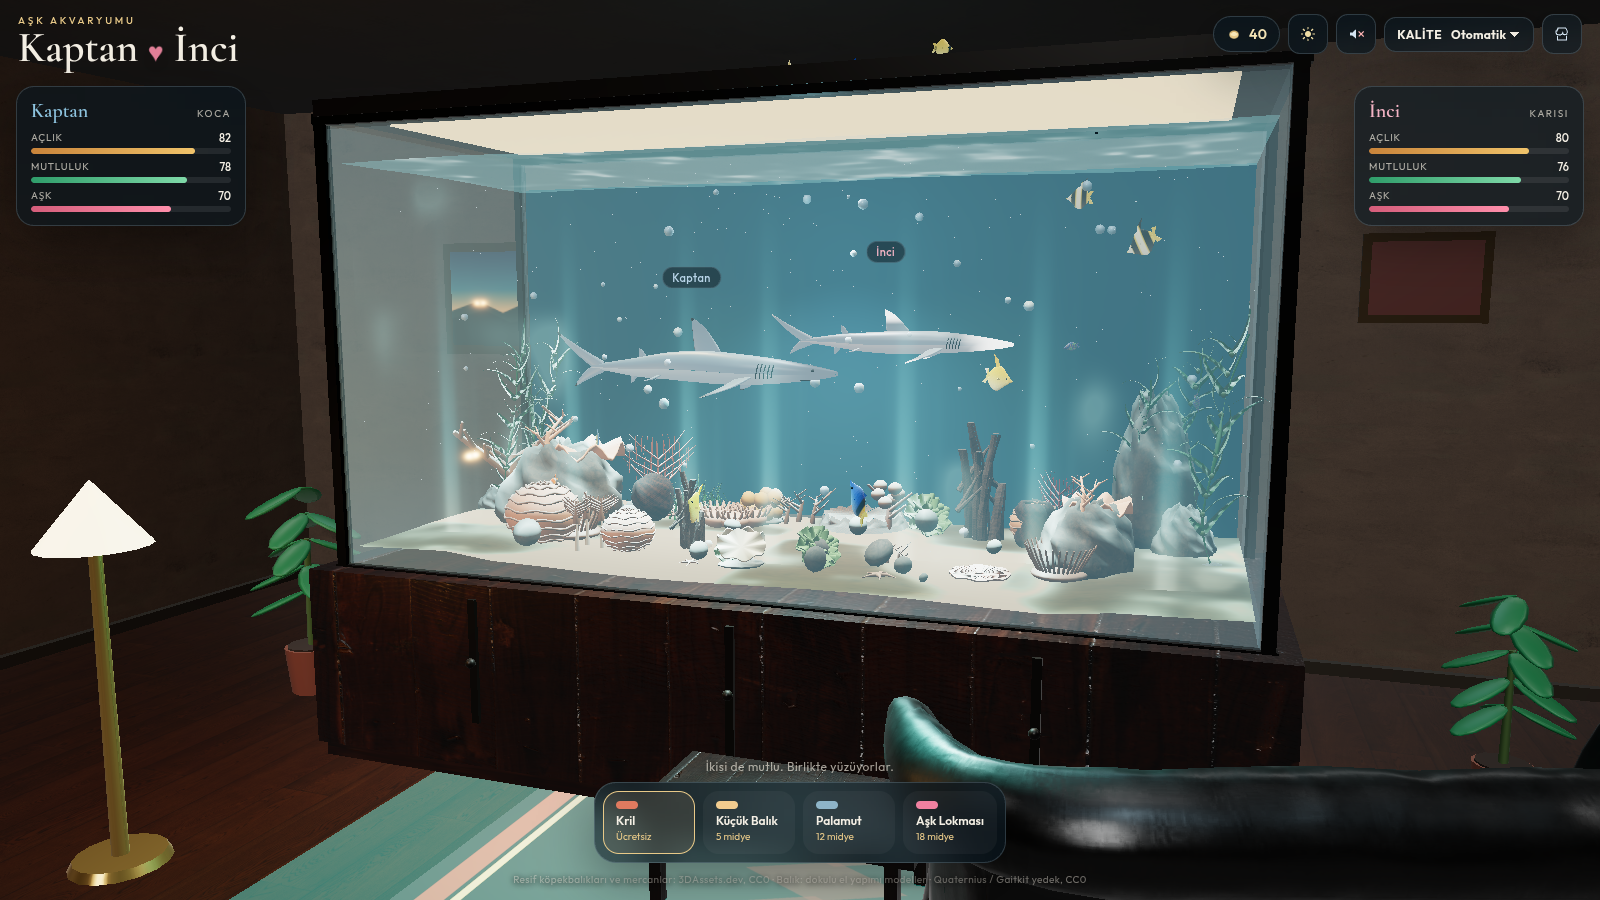
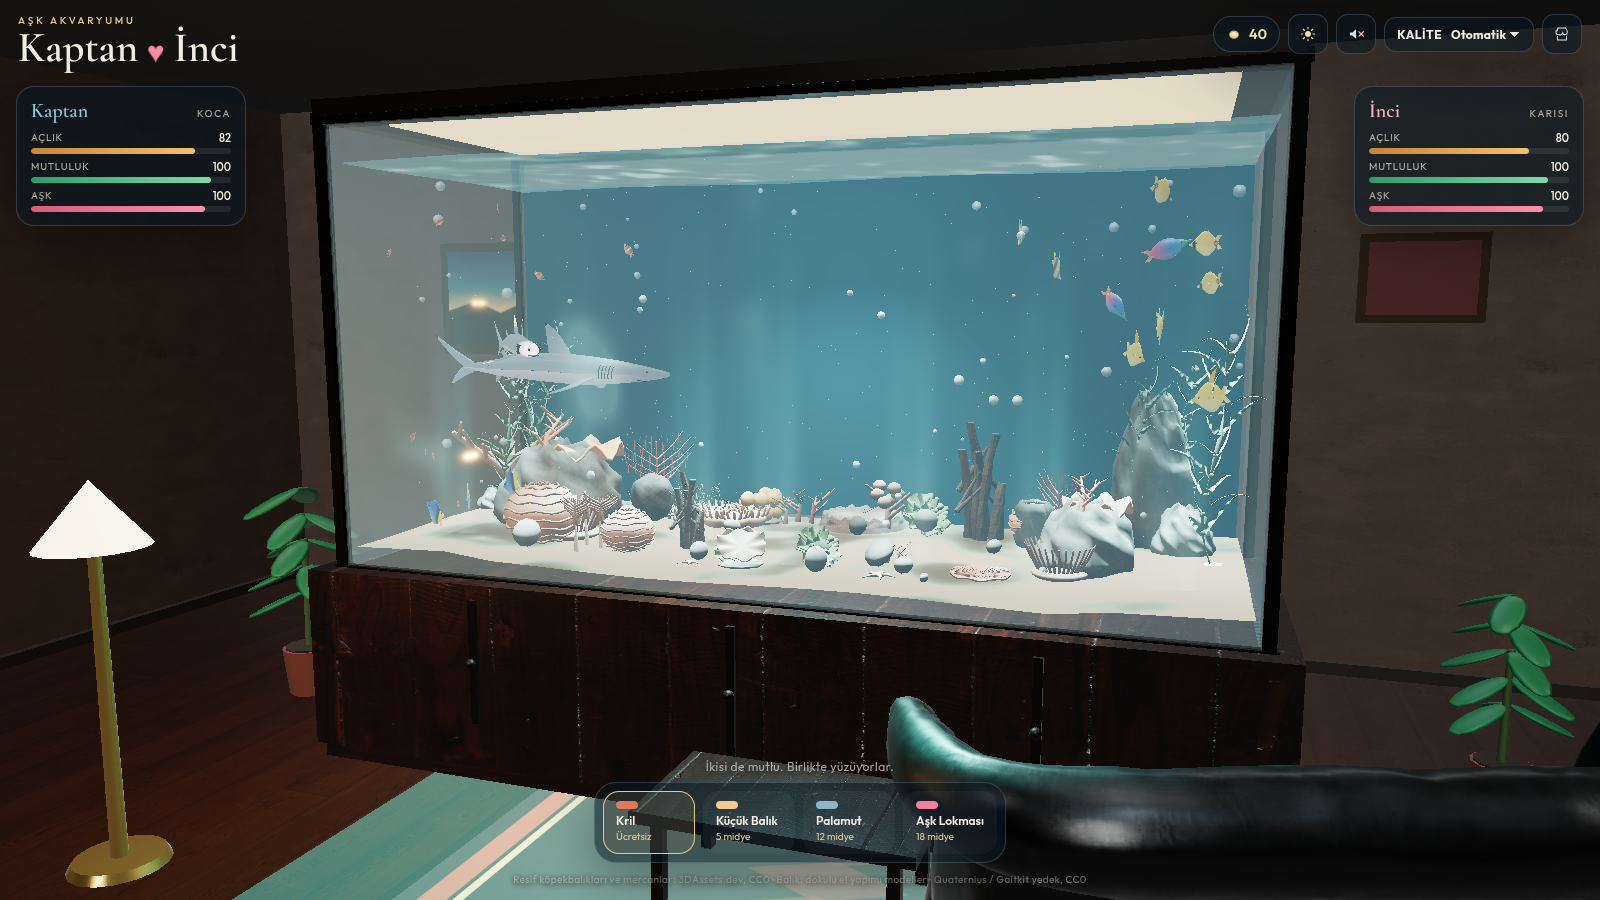
Balıklar artık tankın dışında, havada uçmuyor
Okul entegrasyonu dt ile yapılıyor ve her karede su hacmine (camın içi, su yüzeyinin altı, gövde yarıçapı payı) sıkıca kıstırılıyor. Spawn da aynı hacimde; köpekbalığı, mama, kabarcık ve kar da sınırlı. 30 saniyelik simülasyonda dışarı çıkan yok.

diff --git a/js/actors.js b/js/actors.js
@@ -3,7 +3,7 @@ import { GLTFLoader } from "three/addons/loaders/GLTFLoader.js";
 import { clone as skeletonClone } from "three/addons/utils/SkeletonUtils.js";
 import { CSS2DObject } from "three/addons/renderers/CSS2DRenderer.js";
 import { mergeGeometries, mergeVertices } from "three/addons/utils/BufferGeometryUtils.js";
-import { TANK, tankBounds, applyUnderwater, dequantizeObject } from "./world.js";
+import { TANK, tankBounds, waterVolume, clampToWater, applyUnderwater, dequantizeObject } from "./world.js";
 
 export const CACHE = {
   sharks: {},
@@ -1573,6 +1573,30 @@ function spawnReefFish(gltf, uniforms, length, key, phase) {
   return { wrap, mixer };
 }
 
+
+function fishPad(f, fallbackLen = 0.14) {
+  const len = f.length || ((f.scale || 1) * fallbackLen);
+  const r = Math.max(0.04, len * 0.55);
+  return { x: r, y: Math.max(0.04, r * 0.65), z: Math.max(0.04, r * 0.45) };
+}
+
+function confineBody(f, dt, pad) {
+  const b = waterVolume(pad);
+  const soft = 0.14;
+  if (f.x < b.minX + soft) f.vx += (b.minX + soft - f.x) * 8 * dt;
+  if (f.x > b.maxX - soft) f.vx -= (f.x - (b.maxX - soft)) * 8 * dt;
+  if (f.y < b.minY + soft) f.vy += (b.minY + soft - f.y) * 10 * dt;
+  if (f.y > b.maxY - soft) f.vy -= (f.y - (b.maxY - soft)) * 10 * dt;
+  if (f.z < b.minZ + soft) f.vz += (b.minZ + soft - f.z) * 8 * dt;
+  if (f.z > b.maxZ - soft) f.vz -= (f.z - (b.maxZ - soft)) * 8 * dt;
+  if (f.x < b.minX) { f.x = b.minX; f.vx = Math.abs(f.vx) * 0.35; }
+  if (f.x > b.maxX) { f.x = b.maxX; f.vx = -Math.abs(f.vx) * 0.35; }
+  if (f.y < b.minY) { f.y = b.minY; f.vy = Math.abs(f.vy) * 0.35; }
+  if (f.y > b.maxY) { f.y = b.maxY; f.vy = -Math.abs(f.vy) * 0.35; }
+  if (f.z < b.minZ) { f.z = b.minZ; f.vz = Math.abs(f.vz) * 0.35; }
+  if (f.z > b.maxZ) { f.z = b.maxZ; f.vz = -Math.abs(f.vz) * 0.35; }
+}
+
 export function createFishSchool(quality, uniforms) {
   const group = new THREE.Group();
   const schools = [];
@@ -1589,18 +1613,25 @@ export function createFishSchool(quality, uniforms) {
         const phase = Math.random() * 6.28;
         const spawned = spawnPaintedFish(spec, uniforms, spec.len * scale, phase);
         group.add(spawned.wrap);
+        const length = spec.len * scale;
+        const p0 = clampToWater(
+          spec.base.cx + (Math.random() - 0.5) * spec.spread,
+          spec.base.cy + (Math.random() - 0.5) * 0.32,
+          spec.base.cz + (Math.random() - 0.5) * 0.42,
+          { x: length * 0.55, y: length * 0.4, z: length * 0.35 }
+        );
         members.push({
-          x: spec.base.cx + (Math.random() - 0.5) * spec.spread,
-          y: spec.base.cy + (Math.random() - 0.5) * 0.32,
-          z: spec.base.cz + (Math.random() - 0.5) * 0.42,
+          x: p0.x, y: p0.y, z: p0.z,
           vx: (Math.random() - 0.5) * 0.18,
           vy: 0,
           vz: (Math.random() - 0.5) * 0.18,
           phase,
           scale,
+          length,
           object: spawned.wrap,
           mixer: null,
         });
+        spawned.wrap.position.set(p0.x, p0.y, p0.z);
       }
       schools.push({ inst: null, members, objects: true, id: spec.id });
     }
@@ -1615,18 +1646,25 @@ export function createFishSchool(quality, uniforms) {
         const phase = Math.random() * 6.28;
         const spawned = spawnReefFish(gltf, uniforms, spec.len * scale, spec.id, phase);
         group.add(spawned.wrap);
+        const length = spec.len * scale;
+        const p0 = clampToWater(
+          spec.base.cx + (Math.random() - 0.5) * spec.spread,
+          spec.base.cy + (Math.random() - 0.5) * 0.32,
+          spec.base.cz + (Math.random() - 0.5) * 0.42,
+          { x: length * 0.55, y: length * 0.4, z: length * 0.35 }
+        );
         members.push({
-          x: spec.base.cx + (Math.random() - 0.5) * spec.spread,
-          y: spec.base.cy + (Math.random() - 0.5) * 0.32,
-          z: spec.base.cz + (Math.random() - 0.5) * 0.42,
+          x: p0.x, y: p0.y, z: p0.z,
           vx: (Math.random() - 0.5) * 0.18,
           vy: 0,
           vz: (Math.random() - 0.5) * 0.18,
           phase,
           scale,
+          length,
           object: spawned.wrap,
           mixer: spawned.mixer,
         });
+        spawned.wrap.position.set(p0.x, p0.y, p0.z);
       }
       schools.push({ inst: null, members, objects: true, id: spec.id });
     }
@@ -1658,12 +1696,18 @@ export function createFishSchool(quality, uniforms) {
       const b = bases[name];
       const spread = name === "tetra" ? 0.55 : 0.7;
       for (let i = 0; i < n; i++) {
+        const scale = 0.85 + Math.random() * 0.3;
+        const length = (spec.len || 0.12) * scale;
+        const p0 = clampToWater(
+          b.cx + (Math.random() - 0.5) * spread,
+          b.cy + (Math.random() - 0.5) * 0.35,
+          b.cz + (Math.random() - 0.5) * 0.45,
+          { x: length * 0.55, y: length * 0.4, z: length * 0.35 }
+        );
         members.push({
-          x: b.cx + (Math.random() - 0.5) * spread,
-          y: b.cy + (Math.random() - 0.5) * 0.35,
-          z: b.cz + (Math.random() - 0.5) * 0.45,
+          x: p0.x, y: p0.y, z: p0.z,
           vx: (Math.random() - 0.5) * 0.2, vy: 0, vz: (Math.random() - 0.5) * 0.2,
-          phase: Math.random() * 6.28, scale: 0.85 + Math.random() * 0.3,
+          phase: Math.random() * 6.28, scale, length,
         });
       }
       schools.push({ inst, members });
@@ -1687,13 +1731,19 @@ export function createFishSchool(quality, uniforms) {
         act.setLoop(THREE.LoopRepeat);
         act.time = i * 0.4;
       }
+      const p0 = clampToWater(
+        -1.15 + (Math.random() - 0.5) * 0.28,
+        0.45 + Math.random() * 0.18,
+        0.18 + (Math.random() - 0.5) * 0.18,
+        { x: 0.07, y: 0.05, z: 0.04 }
+      );
+      wrap.position.set(p0.x, p0.y, p0.z);
       members.push({
-        x: -1.15 + (Math.random() - 0.5) * 0.28,
-        y: 0.45 + Math.random() * 0.18,
-        z: 0.18 + (Math.random() - 0.5) * 0.18,
+        x: p0.x, y: p0.y, z: p0.z,
         vx: 0.05, vy: 0, vz: 0,
         phase: Math.random() * 6.28,
         scale: 1,
+        length: 0.12,
         object: wrap,
         mixer,
       });
@@ -1705,16 +1755,16 @@ export function createFishSchool(quality, uniforms) {
 }
 
 export function updateFish(schools, sharks, dt) {
-  if (typeof window !== "undefined" && window.__freezeFish) return;
-  const b = tankBounds();
   const dummy = new THREE.Object3D();
   const now = performance.now();
+  const frozen = typeof window !== "undefined" && window.__freezeFish;
   for (const school of schools) {
     let cx = 0, cy = 0, cz = 0;
     for (const f of school.members) { cx += f.x; cy += f.y; cz += f.z; }
     const n = school.members.length;
     cx /= n; cy /= n; cz /= n;
     school.members.forEach((f, i) => {
+      if (!frozen) {
       f.vx += (cx - f.x) * 0.55 * dt;
       f.vy += (cy - f.y) * 0.45 * dt;
       f.vz += (cz - f.z) * 0.55 * dt;
@@ -1740,16 +1790,16 @@ export function updateFish(schools, sharks, dt) {
           f.vz += (dz / d) * 2.2 * dt;
         }
       }
-      if (f.x < b.minX) f.vx += dt * 1.4;
-      if (f.x > b.maxX) f.vx -= dt * 1.4;
-      if (f.y < b.minY) f.vy += dt * 1.2;
-      if (f.y > b.maxY) f.vy -= dt * 1.2;
-      if (f.z < b.minZ) f.vz += dt * 1.4;
-      if (f.z > b.maxZ) f.vz -= dt * 1.4;
+      }
       const sp = Math.hypot(f.vx, f.vy, f.vz);
       const maxSp = school.objects ? 0.35 : 0.55;
       if (sp > maxSp) { f.vx *= maxSp / sp; f.vy *= maxSp / sp; f.vz *= maxSp / sp; }
-      f.x += f.vx; f.y += f.vy; f.z += f.vz;
+      if (!frozen) {
+        f.x += f.vx * dt;
+        f.y += f.vy * dt;
+        f.z += f.vz * dt;
+      }
+      confineBody(f, dt, fishPad(f, school.objects ? 0.14 : 0.1));
       if (f.object) {
         f.object.position.set(f.x, f.y, f.z);
         const lookX = f.x + f.vx, lookY = f.y + f.vy, lookZ = f.z + f.vz;
@@ -1794,10 +1844,16 @@ export function createBubbles(quality) {
   inst.raycast = () => {};
   const items = [];
   for (let i = 0; i < quality.bubbles; i++) {
+    const p0 = clampToWater(
+      (Math.random() - 0.5) * TANK.w * 0.8,
+      TANK.sand + 0.08 + Math.random() * (TANK.water - TANK.sand - 0.16),
+      (Math.random() - 0.5) * TANK.d * 0.8,
+      0.04
+    );
     items.push({
-      x: (Math.random() - 0.5) * TANK.w * 0.9,
-      y: Math.random() * TANK.water,
-      z: (Math.random() - 0.5) * TANK.d * 0.9,
+      x: p0.x,
+      y: p0.y,
+      z: p0.z,
       r: 0.008 + Math.random() * 0.022,
       vy: 0.12 + Math.random() * 0.22,
       ph: Math.random() * 6.28,
@@ -1822,11 +1878,14 @@ export function updateBubbles(bubbles, t, dt) {
     const b = bubbles.items[i];
     b.y += b.vy * dt;
     b.x += Math.sin(t * 1.3 + b.ph) * 0.04 * dt;
-    if (b.y > TANK.water - 0.05) {
-      b.y = TANK.sand + 0.05;
-      b.x = (Math.random() - 0.5) * TANK.w * 0.9;
-      b.z = (Math.random() - 0.5) * TANK.d * 0.9;
+    const vol = waterVolume(0.04);
+    if (b.y > vol.maxY) {
+      b.y = vol.minY;
+      b.x = vol.minX + Math.random() * (vol.maxX - vol.minX);
+      b.z = vol.minZ + Math.random() * (vol.maxZ - vol.minZ);
     }
+    b.x = Math.min(vol.maxX, Math.max(vol.minX, b.x));
+    b.z = Math.min(vol.maxZ, Math.max(vol.minZ, b.z));
     dummy.position.set(b.x, b.y, b.z);
     dummy.scale.setScalar(b.r);
     dummy.updateMatrix();
@@ -1840,9 +1899,15 @@ export function createSnow(quality) {
   const n = quality.snow;
   const pos = new Float32Array(n * 3);
   for (let i = 0; i < n; i++) {
-    pos[i * 3] = (Math.random() - 0.5) * TANK.w;
-    pos[i * 3 + 1] = Math.random() * TANK.water;
-    pos[i * 3 + 2] = (Math.random() - 0.5) * TANK.d;
+    const p0 = clampToWater(
+      (Math.random() - 0.5) * TANK.w * 0.85,
+      TANK.sand + 0.06 + Math.random() * (TANK.water - TANK.sand - 0.12),
+      (Math.random() - 0.5) * TANK.d * 0.85,
+      0.02
+    );
+    pos[i * 3] = p0.x;
+    pos[i * 3 + 1] = p0.y;
+    pos[i * 3 + 2] = p0.z;
   }
   g.setAttribute("position", new THREE.BufferAttribute(pos, 3));
   const mat = new THREE.PointsMaterial({
@@ -1861,10 +1926,14 @@ export function createSnow(quality) {
 export function updateSnow(pts, dt) {
   const p = pts.geometry.attributes.position;
   for (let i = 0; i < p.count; i++) {
+    const vol = waterVolume(0.02);
     let y = p.getY(i) - 0.03 * dt;
     let x = p.getX(i) + Math.sin(i + performance.now() * 0.0003) * 0.01 * dt;
-    if (y < TANK.sand) y = TANK.water - 0.05;
-    p.setXYZ(i, x, y, p.getZ(i));
+    let z = p.getZ(i);
+    if (y < vol.minY) y = vol.maxY;
+    x = Math.min(vol.maxX, Math.max(vol.minX, x));
+    z = Math.min(vol.maxZ, Math.max(vol.minZ, z));
+    p.setXYZ(i, x, y, z);
   }
   p.needsUpdate = true;
 }

diff --git a/js/sim.js b/js/sim.js
@@ -1,5 +1,5 @@
 import * as THREE from "three";
-import { TANK, tankBounds, setDayNight } from "./world.js";
+import { TANK, tankBounds, waterVolume, clampToWater, setDayNight } from "./world.js";
 import {
   createSharkActor, playBite, updateSharkVisual,
   createKelp, createFishSchool, updateFish, createReefScenery,
@@ -358,9 +358,10 @@ export function createGame(world, gltf) {
     if (typ.price > 0 && state.coins < typ.price) { toast("Yeterli midye yok."); return; }
     if (typ.price > 0) { state.coins -= typ.price; updateHUD(); }
     const b = tankBounds();
-    const x = clamp(point.x, b.minX, b.maxX);
-    const y = clamp(point.y, TANK.water - 0.15, TANK.water - 0.02);
-    const z = clamp(point.z, b.minZ, b.maxZ);
+    const vol = waterVolume(0.05);
+    const x = clamp(point.x, vol.minX, vol.maxX);
+    const y = clamp(point.y, vol.minY, vol.maxY);
+    const z = clamp(point.z, vol.minZ, vol.maxZ);
     const mesh = createFoodMesh(typ.id, typ.color);
     mesh.position.set(x, y, z);
     world.interior.add(mesh);
@@ -460,9 +461,21 @@ export function createGame(world, gltf) {
       s.vz = lerp(s.vz, az * maxSp, 1 - Math.pow(0.02, dt * steer * 0.4));
       const sp = Math.hypot(s.vx, s.vy, s.vz);
       if (sp > maxSp) { s.vx *= maxSp / sp; s.vy *= maxSp / sp; s.vz *= maxSp / sp; }
-      s.x = clamp(s.x + s.vx * dt, b.minX - 0.05, b.maxX + 0.05);
-      s.y = clamp(s.y + s.vy * dt, TANK.sand + 0.18, TANK.water - 0.18);
-      s.z = clamp(s.z + s.vz * dt, b.minZ - 0.05, b.maxZ + 0.05);
+      const pad = {
+        x: Math.max(0.22, (s.length || 1.2) * 0.28),
+        y: Math.max(0.16, (s.length || 1.2) * 0.12),
+        z: Math.max(0.16, (s.length || 1.2) * 0.14),
+      };
+      const vol = waterVolume(pad);
+      s.x = clamp(s.x + s.vx * dt, vol.minX, vol.maxX);
+      s.y = clamp(s.y + s.vy * dt, vol.minY, vol.maxY);
+      s.z = clamp(s.z + s.vz * dt, vol.minZ, vol.maxZ);
+      if (s.x <= vol.minX && s.vx < 0) s.vx *= -0.3;
+      if (s.x >= vol.maxX && s.vx > 0) s.vx *= -0.3;
+      if (s.y <= vol.minY && s.vy < 0) s.vy *= -0.3;
+      if (s.y >= vol.maxY && s.vy > 0) s.vy *= -0.3;
+      if (s.z <= vol.minZ && s.vz < 0) s.vz *= -0.3;
+      if (s.z >= vol.maxZ && s.vz > 0) s.vz *= -0.3;
       if (sp > 0.05) {
         s.heading = Math.atan2(s.vz, s.vx);
         s.pitch = Math.atan2(s.vy, Math.hypot(s.vx, s.vz));
@@ -533,9 +546,13 @@ export function createGame(world, gltf) {
 
   function updateFoods(dt) {
     for (const f of state.foods) {
+      const vol = waterVolume(0.04);
       f.vy = Math.min(f.vy + 0.35 * dt, 0.45);
       f.y -= f.vy * dt;
-      if (f.y <= TANK.sand + 0.04) { f.y = TANK.sand + 0.04; f.vy = 0; f.sink = (f.sink || 0) + dt; }
+      f.x = clamp(f.x, vol.minX, vol.maxX);
+      f.z = clamp(f.z, vol.minZ, vol.maxZ);
+      if (f.y <= vol.minY) { f.y = vol.minY; f.vy = 0; f.sink = (f.sink || 0) + dt; }
+      if (f.y > vol.maxY) f.y = vol.maxY;
       f.mesh.position.set(f.x, f.y, f.z);
       f.mesh.rotation.y += dt * 1.2;
     }
@@ -549,8 +566,10 @@ export function createGame(world, gltf) {
   function updateHearts(dt) {
     state.hearts = state.hearts.filter((h) => {
       h.life -= dt;
-      h.sprite.position.y += h.vy * dt;
-      h.sprite.position.x += Math.sin((h.max - h.life) * 6 + h.vy) * 0.08 * dt;
+      const vol = waterVolume(0.04);
+      h.sprite.position.y = Math.min(vol.maxY, h.sprite.position.y + h.vy * dt);
+      h.sprite.position.x = clamp(h.sprite.position.x + Math.sin((h.max - h.life) * 6 + h.vy) * 0.08 * dt, vol.minX, vol.maxX);
+      h.sprite.position.z = clamp(h.sprite.position.z, vol.minZ, vol.maxZ);
       const k = clamp(h.life / h.max, 0, 1);
       h.sprite.material.opacity = k;
       const s = (h.baseScale || h.sprite.scale.x) * (0.85 + 0.25 * Math.sin((h.max - h.life) * 8));

diff --git a/js/world.js b/js/world.js
@@ -127,16 +127,34 @@ export function finalizeQuality(quality, gpuStr) {
   return applyUrlFlags(quality);
 }
 
-export function tankBounds() {
-  const m = 0.28;
+/** Inner water volume (inside the glass, below the water surface). pad is a body radius. */
+export function waterVolume(pad = 0.08) {
+  const px = typeof pad === "object" ? (pad.x ?? 0.08) : pad;
+  const py = typeof pad === "object" ? (pad.y ?? 0.08) : pad;
+  const pz = typeof pad === "object" ? (pad.z ?? 0.08) : pad;
+  const wall = TANK.glass + 0.03;
   return {
-    minX: -TANK.w / 2 + m,
-    maxX: TANK.w / 2 - m,
-    minY: TANK.sand + 0.22,
-    maxY: TANK.water - 0.28,
-    minZ: -TANK.d / 2 + m,
-    maxZ: TANK.d / 2 - m,
+    minX: -TANK.w / 2 + wall + px,
+    maxX:  TANK.w / 2 - wall - px,
+    minY: TANK.sand + 0.05 + py,
+    maxY: TANK.water - 0.04 - py,
+    minZ: -TANK.d / 2 + wall + pz,
+    maxZ:  TANK.d / 2 - wall - pz,
   };
+}
+
+export function clampToWater(x, y, z, pad = 0.08) {
+  const b = waterVolume(pad);
+  return {
+    x: Math.min(b.maxX, Math.max(b.minX, x)),
+    y: Math.min(b.maxY, Math.max(b.minY, y)),
+    z: Math.min(b.maxZ, Math.max(b.minZ, z)),
+  };
+}
+
+/** Default school/shark wander box — water volume with a conservative center margin. */
+export function tankBounds() {
+  return waterVolume(0.18);
 }
 
 function texLoader(manager) {

diff --git a/index.html b/index.html
@@ -138,6 +138,6 @@
       </form>
     </div>
   </div>
-  <script type="module" src="js/main.js?v=20261121ah"></script>
+  <script type="module" src="js/main.js?v=20261121ai"></script>
 </body>
 </html>
